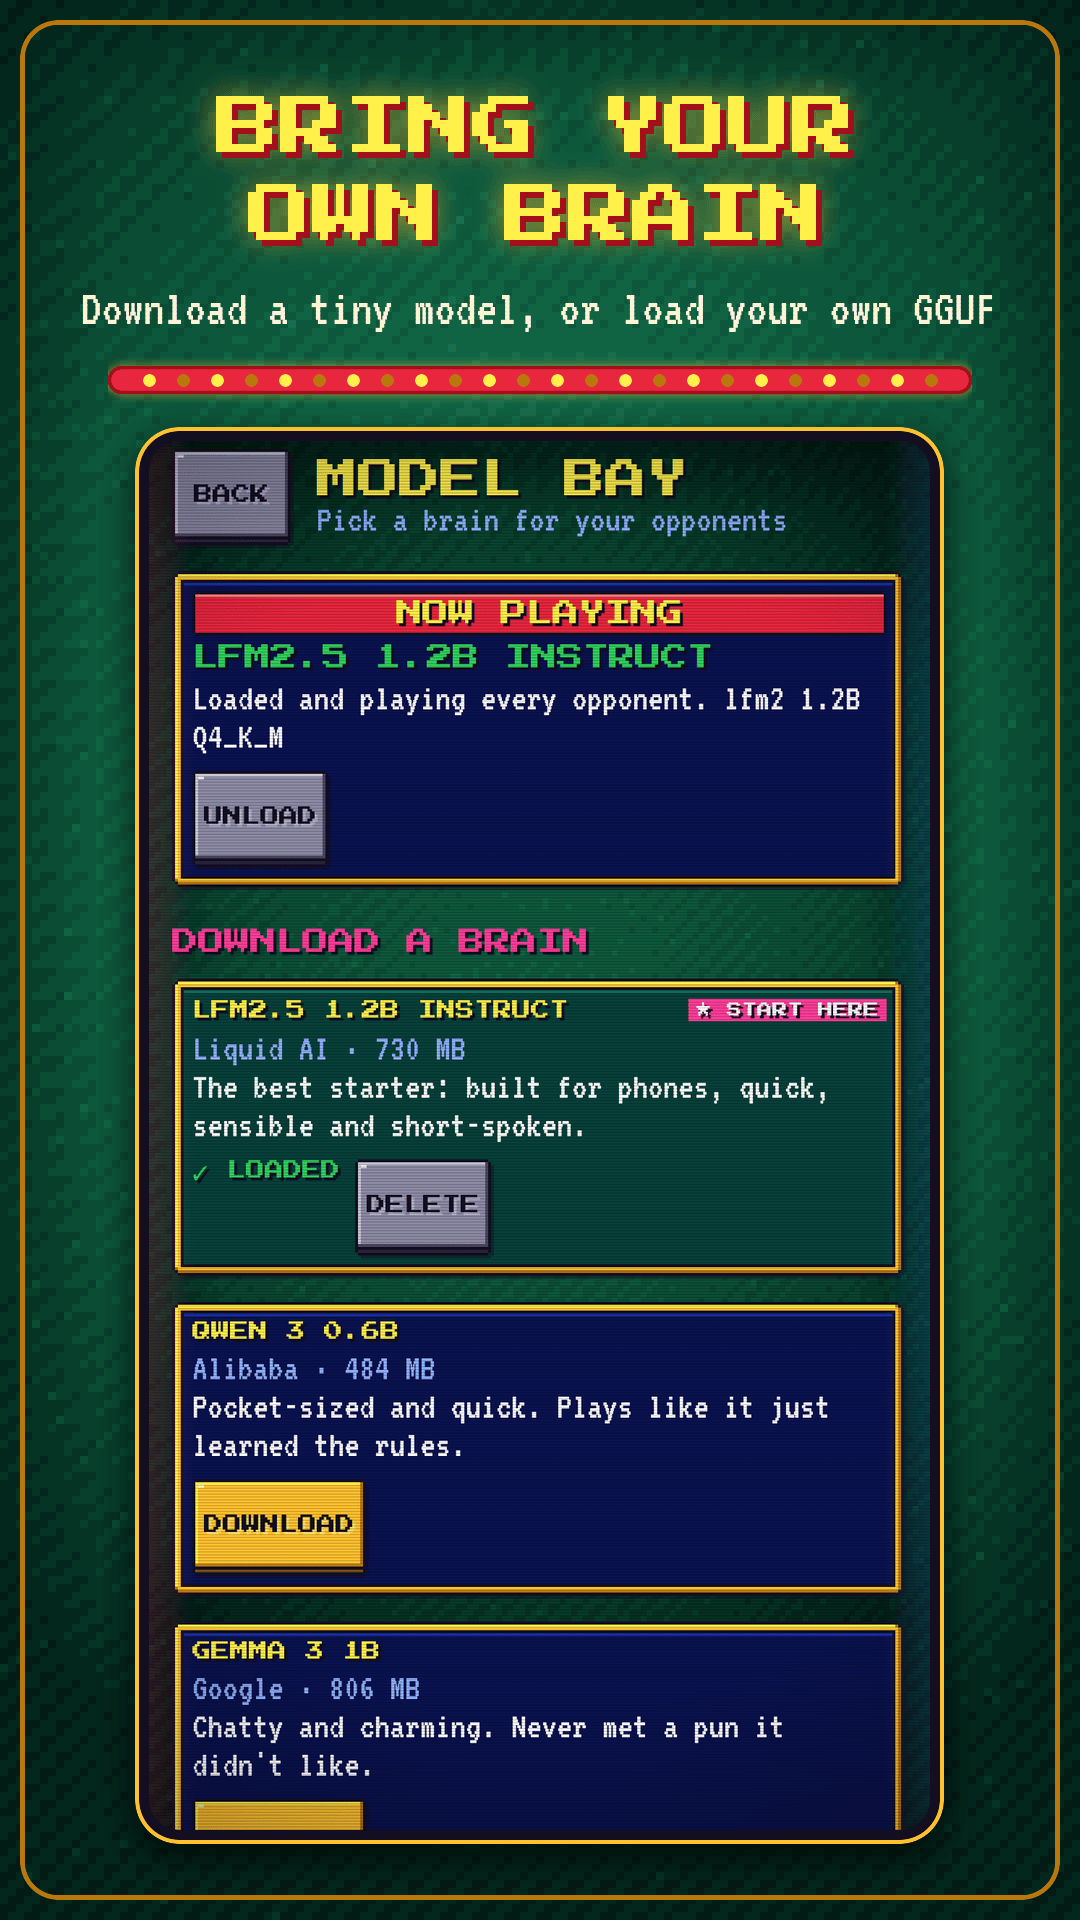
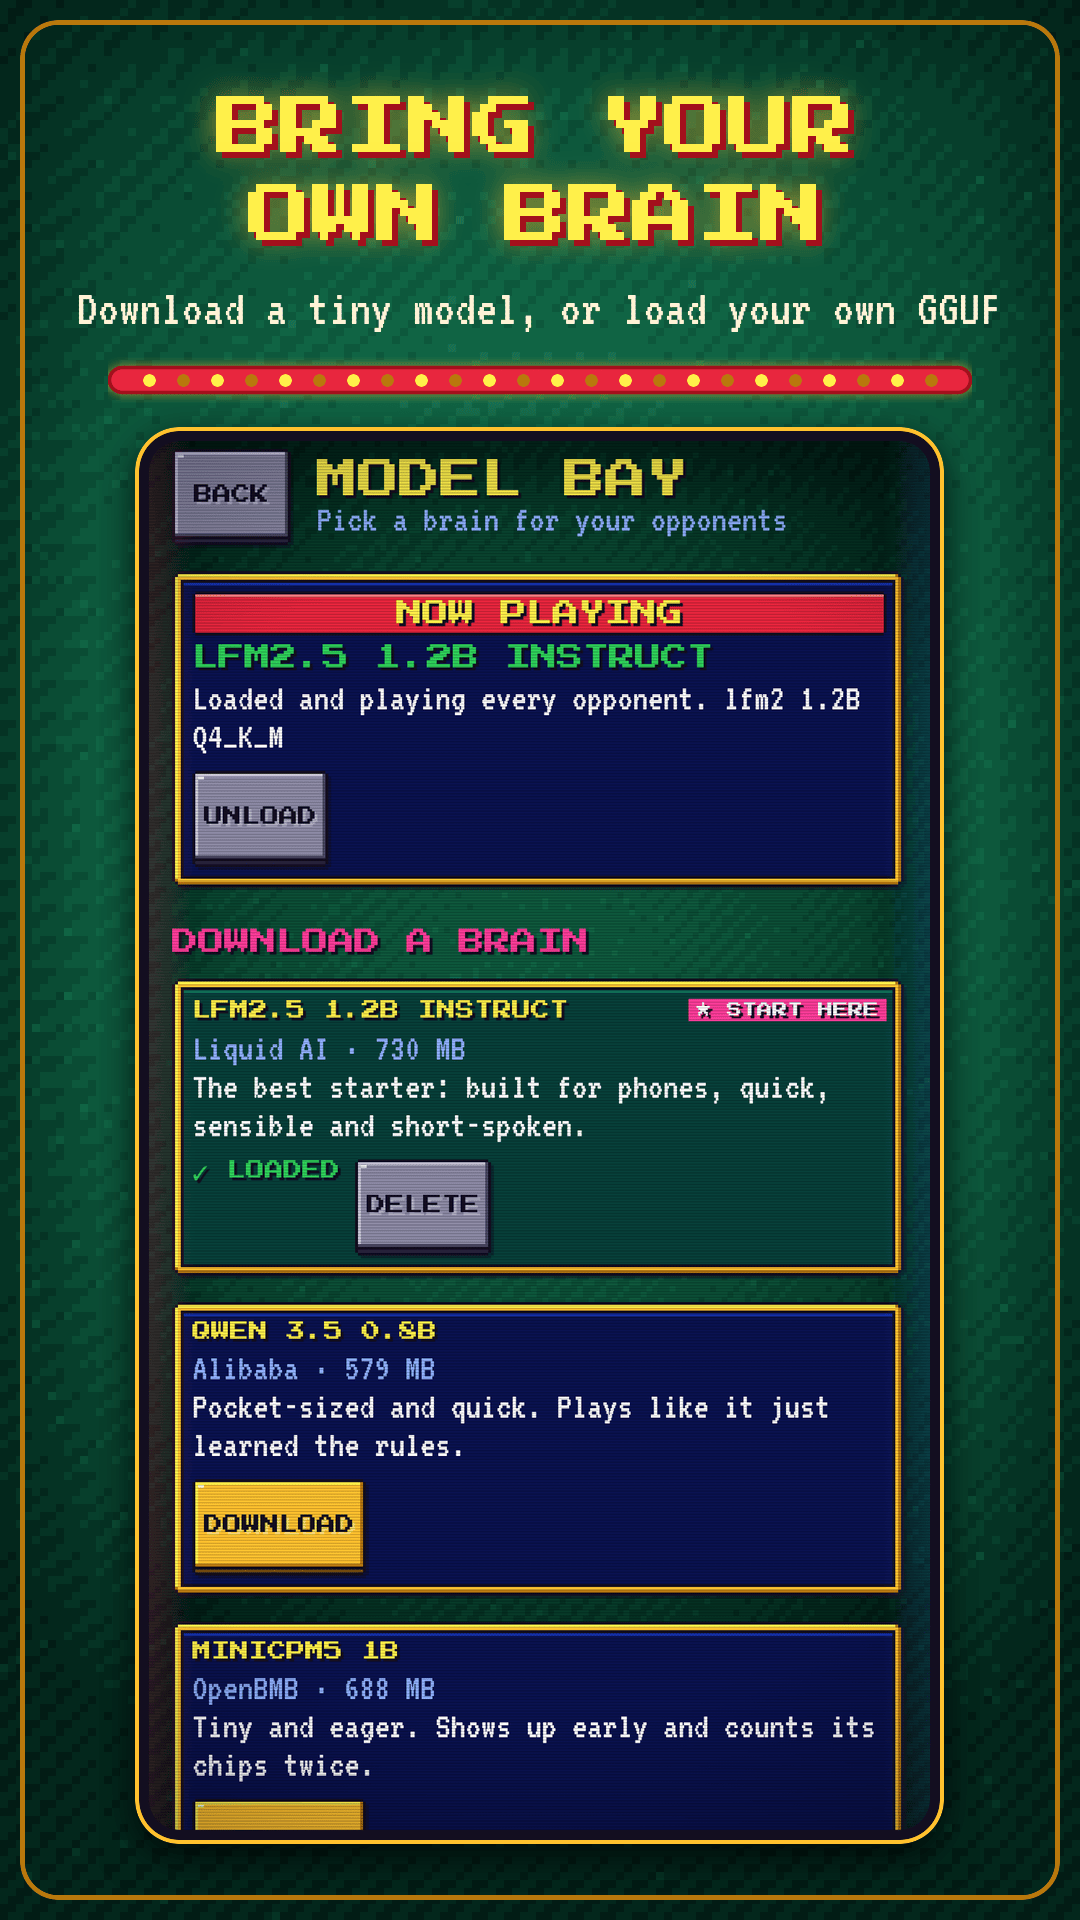
Model catalog: Gemma 4, Qwen 3.5 and MiniCPM5 from LM Playground (#19)
* Update the model catalog to LM Playground's newest models

Add Gemma 4 E2B and E4B (Google's QAT Q4_0 GGUFs), Qwen 3.5 0.8B/2B/4B
in place of Qwen 3, and MiniCPM5 1B. Drop Gemma 3 1B, superseded by
Gemma 4. Llama 3.2, LFM2.5, Granite 4.0 H 1B, SmolLM3 and Phi-4 mini
stay: they are still the newest small models of their families. Sizes
checked with HEAD requests against Hugging Face.

Claude-Session: https://claude.ai/code/session_01M1YjJZPRJoStG5HnLD3umL

* Fix AttractLinesTest for the renamed sample model

Claude-Session: https://claude.ai/code/session_01M1YjJZPRJoStG5HnLD3umL

* Harness results for the new models; regenerate the Models screenshots

Gemma 4 E2B/E4B, Qwen 3.5 0.8B/2B/4B and MiniCPM5 1B each played the
harness cases through the app's prompts and grammars: every reply valid
JSON and a legal decision.

Claude-Session: https://claude.ai/code/session_01M1YjJZPRJoStG5HnLD3umL

* Reload a model dropped from the catalog under its file's id

The last-loaded model is remembered by catalog id. Once that entry is
gone (Qwen 3, Gemma 3), the Models screen lists the file as the player's
own, keyed by its location, so the reloaded model has to carry that id
too or its row shows as not loaded and DELETE skips the unload.

Claude-Session: https://claude.ai/code/session_01M1YjJZPRJoStG5HnLD3umL

---------

diff --git a/app/src/main/java/com/bradflaugher/pokersi/llm/ModelCatalog.kt b/app/src/main/java/com/bradflaugher/pokersi/llm/ModelCatalog.kt
@@ -14,29 +14,30 @@ data class CatalogModel(
 )
 
 /**
- * Small instruct GGUFs (Q4_K_M) that run on a phone and follow a JSON
- * format well enough to play. Sizes were checked with HTTP HEAD requests
- * (Hugging Face's x-linked-size); the URLs are the ones LM Playground uses
- * where it has the model.
+ * Small instruct GGUFs that run on a phone and follow a JSON format well
+ * enough to play: the newest of each family LM Playground carries, Q4_K_M
+ * (Gemma 4 is Google's own quantization-aware Q4_0). Sizes were checked
+ * with HTTP HEAD requests (Hugging Face's x-linked-size); the URLs are the
+ * repos LM Playground uses.
  */
 object ModelCatalog {
     private const val HF = "https://huggingface.co"
 
     val models: List<CatalogModel> = listOf(
         CatalogModel(
-            "qwen3-0.6b", "Qwen 3 0.6B", "Alibaba", "Qwen3-0.6B-Q4_K_M.gguf",
-            "$HF/lmstudio-community/Qwen3-0.6B-GGUF/resolve/main/Qwen3-0.6B-Q4_K_M.gguf", 484_219_808,
+            "qwen3.5-0.8b", "Qwen 3.5 0.8B", "Alibaba", "Qwen_Qwen3.5-0.8B-Q4_K_M.gguf",
+            "$HF/bartowski/Qwen_Qwen3.5-0.8B-GGUF/resolve/main/Qwen_Qwen3.5-0.8B-Q4_K_M.gguf", 579_615_840,
             "Pocket-sized and quick. Plays like it just learned the rules.",
+        ),
+        CatalogModel(
+            "minicpm5-1b", "MiniCPM5 1B", "OpenBMB", "MiniCPM5-1B-Q4_K_M.gguf",
+            "$HF/openbmb/MiniCPM5-1B-GGUF/resolve/main/MiniCPM5-1B-Q4_K_M.gguf", 688_065_920,
+            "Tiny and eager. Shows up early and counts its chips twice.",
         ),
         CatalogModel(
             "llama3.2-1b", "Llama 3.2 1B", "Meta", "Llama-3.2-1B-Instruct-Q4_K_M.gguf",
             "$HF/lmstudio-community/Llama-3.2-1B-Instruct-GGUF/resolve/main/Llama-3.2-1B-Instruct-Q4_K_M.gguf", 807_690_688,
             "Steady and talkative. A safe pair of hands for any phone.",
-        ),
-        CatalogModel(
-            "gemma3-1b", "Gemma 3 1B", "Google", "gemma-3-1b-it-Q4_K_M.gguf",
-            "$HF/lmstudio-community/gemma-3-1b-it-GGUF/resolve/main/gemma-3-1b-it-Q4_K_M.gguf", 806_058_240,
-            "Chatty and charming. Never met a pun it didn't like.",
         ),
         CatalogModel(
             "lfm2.5-1.2b", "LFM2.5 1.2B Instruct", "Liquid AI", "LFM2.5-1.2B-Instruct-Q4_K_M.gguf",
@@ -50,14 +51,9 @@ object ModelCatalog {
             "All business. Brings a spreadsheet to game night.",
         ),
         CatalogModel(
-            "qwen3-1.7b", "Qwen 3 1.7B", "Alibaba", "Qwen3-1.7B-Q4_K_M.gguf",
-            "$HF/lmstudio-community/Qwen3-1.7B-GGUF/resolve/main/Qwen3-1.7B-Q4_K_M.gguf", 1_282_439_328,
+            "qwen3.5-2b", "Qwen 3.5 2B", "Alibaba", "Qwen_Qwen3.5-2B-Q4_K_M.gguf",
+            "$HF/bartowski/Qwen_Qwen3.5-2B-GGUF/resolve/main/Qwen_Qwen3.5-2B-Q4_K_M.gguf", 1_396_198_496,
             "A sharper player that still fits on most phones.",
-        ),
-        CatalogModel(
-            "llama3.2-3b", "Llama 3.2 3B", "Meta", "Llama-3.2-3B-Instruct-Q4_K_M.gguf",
-            "$HF/lmstudio-community/Llama-3.2-3B-Instruct-GGUF/resolve/main/Llama-3.2-3B-Instruct-Q4_K_M.gguf", 2_019_377_440,
-            "Reads the table like a regular. Needs a roomy phone.",
         ),
         CatalogModel(
             "smollm3-3b", "SmolLM3 3B", "Hugging Face", "HuggingFaceTB_SmolLM3-3B-Q4_K_M.gguf",
@@ -65,14 +61,29 @@ object ModelCatalog {
             "Small name, big ideas. Fully open, all the way down.",
         ),
         CatalogModel(
+            "llama3.2-3b", "Llama 3.2 3B", "Meta", "Llama-3.2-3B-Instruct-Q4_K_M.gguf",
+            "$HF/lmstudio-community/Llama-3.2-3B-Instruct-GGUF/resolve/main/Llama-3.2-3B-Instruct-Q4_K_M.gguf", 2_019_377_440,
+            "Reads the table like a regular. Needs a roomy phone.",
+        ),
+        CatalogModel(
             "phi4-mini", "Phi-4 mini", "Microsoft", "Phi-4-mini-instruct-Q4_K_M.gguf",
             "$HF/lmstudio-community/Phi-4-mini-instruct-GGUF/resolve/main/Phi-4-mini-instruct-Q4_K_M.gguf", 2_491_874_400,
             "The math whiz. Counts outs in its sleep.",
         ),
         CatalogModel(
-            "qwen3-4b", "Qwen 3 4B", "Alibaba", "Qwen3-4B-Q4_K_M.gguf",
-            "$HF/lmstudio-community/Qwen3-4B-GGUF/resolve/main/Qwen3-4B-Q4_K_M.gguf", 2_497_280_704,
+            "qwen3.5-4b", "Qwen 3.5 4B", "Alibaba", "Qwen_Qwen3.5-4B-Q4_K_M.gguf",
+            "$HF/bartowski/Qwen_Qwen3.5-4B-GGUF/resolve/main/Qwen_Qwen3.5-4B-Q4_K_M.gguf", 3_013_027_808,
             "The table shark. Slow on older phones, scary on new ones.",
+        ),
+        CatalogModel(
+            "gemma4-e2b", "Gemma 4 E2B", "Google", "gemma-4-E2B_q4_0-it.gguf",
+            "$HF/google/gemma-4-E2B-it-qat-q4_0-gguf/resolve/main/gemma-4-E2B_q4_0-it.gguf", 3_349_516_256,
+            "Google's phone-sized ace. Charming, sharp, and needs 8 GB of RAM.",
+        ),
+        CatalogModel(
+            "gemma4-e4b", "Gemma 4 E4B", "Google", "gemma-4-E4B_q4_0-it.gguf",
+            "$HF/google/gemma-4-E4B-it-qat-q4_0-gguf/resolve/main/gemma-4-E4B_q4_0-it.gguf", 5_154_941_280,
+            "The high roller. Plays a mean game on a 12 GB flagship.",
         ),
     )
 

diff --git a/app/src/main/java/com/bradflaugher/pokersi/llm/ModelStore.kt b/app/src/main/java/com/bradflaugher/pokersi/llm/ModelStore.kt
@@ -32,6 +32,13 @@ sealed interface ModelLocation {
 
     /** A Storage Access Framework document the user picked (loaded through its file descriptor). */
     data class Document(val uri: Uri) : ModelLocation
+
+    /** The id of a model file that is not in the catalog: where it lives. */
+    val customId: String
+        get() = when (this) {
+            is FilePath -> file.path
+            is Document -> uri.toString()
+        }
 }
 
 /**
@@ -164,11 +171,7 @@ class ModelStore private constructor(context: Context) {
         }
         val catalogNames = ModelCatalog.models.map { it.fileName }.toSet()
         val custom = files.filter { it.name !in catalogNames }.map { f ->
-            val id = when (val l = f.location) {
-                is ModelLocation.FilePath -> l.file.path
-                is ModelLocation.Document -> l.uri.toString()
-            }
-            LocalModel(id, f.name.removeSuffix(".gguf"), f.name, f.size, f.location, null)
+            LocalModel(f.location.customId, f.name.removeSuffix(".gguf"), f.name, f.size, f.location, null)
         }.distinctBy { it.id }.sortedBy { it.name.lowercase() }
         return catalog + custom
     }

diff --git a/app/src/test/java/com/bradflaugher/pokersi/game/AttractLinesTest.kt b/app/src/test/java/com/bradflaugher/pokersi/game/AttractLinesTest.kt
@@ -25,10 +25,10 @@ class AttractLinesTest {
         val tour = RunState.new(5L)
         val best = BestHand.of(HandEvaluator.evaluate(Card.parseList("As Ah Ad Ks Kh")), GameVariant.TEXAS_HOLDEM)
         val stats = LifetimeStats(handsPlayed = 40, handsWon = 12, biggestPot = 3200, bestHand = best)
-        val lines = AttractLines.lines(TitleFacts(tour, DailyResult(played = true, finished = true, bestTables = 4), stats, "Qwen 3 1.7B"))
+        val lines = AttractLines.lines(TitleFacts(tour, DailyResult(played = true, finished = true, bestTables = 4), stats, "Qwen 3.5 2B"))
         assertEquals("CHIPS ${formatChips(tour.playerChips)} · TOUR STOP 1", lines.first())
         assertTrue("DAILY TOUR: BEST 4 TABLES" in lines)
-        assertTrue("QWEN 3 1.7B IS AT THE TABLE" in lines)
+        assertTrue("QWEN 3.5 2B IS AT THE TABLE" in lines)
         assertTrue("BIGGEST POT 3,200" in lines)
         assertTrue("BEST HAND: FULL HOUSE" in lines)
         assertFalse(lines.any { it.startsWith("WELCOME") })

diff --git a/app/src/main/java/com/bradflaugher/pokersi/llm/LlamaEngine.kt b/app/src/main/java/com/bradflaugher/pokersi/llm/LlamaEngine.kt
@@ -331,13 +331,15 @@ class LlamaEngine private constructor(context: Context) : LlmBackend {
         val location = prefs.getString(KEY_PATH, null)?.let { ModelLocation.FilePath(File(it)) }
             ?: prefs.getString(KEY_URI, null)?.toUri()?.let { ModelLocation.Document(it) }
             ?: return null
+        // A model since dropped from the catalog is listed as the player's own file, by location.
+        val catalog = ModelCatalog.byId(id)
         return LocalModel(
-            id = id,
+            id = if (catalog != null) id else location.customId,
             name = prefs.getString(KEY_NAME, null) ?: id,
             fileName = prefs.getString(KEY_FILE, null) ?: "",
             sizeBytes = 0,
             location = location,
-            catalog = ModelCatalog.byId(id),
+            catalog = catalog,
         )
     }
 

diff --git a/app/src/test/java/com/bradflaugher/pokersi/ui/screens/ConsoleScene.kt b/app/src/test/java/com/bradflaugher/pokersi/ui/screens/ConsoleScene.kt
@@ -36,8 +36,8 @@ say ::= sayc+
 sayc ::= [^"\\\x00-\x1F]"""
 
     val entries: List<AiLogEntry> = listOf(
-        AiLogEntry(1, T0, AiLogKind.ENGINE, "ENGINE", "loading Qwen 3 1.7B"),
-        AiLogEntry(2, T0 + 2_310, AiLogKind.ENGINE, "ENGINE", "ready: Qwen 3 1.7B", "qwen3 1.7B Q4_K_M · 4 threads · ctx 4096"),
+        AiLogEntry(1, T0, AiLogKind.ENGINE, "ENGINE", "loading Qwen 3.5 2B"),
+        AiLogEntry(2, T0 + 2_310, AiLogKind.ENGINE, "ENGINE", "ready: Qwen 3.5 2B", "qwen35 2B Q4_K_M · 4 threads · ctx 4096"),
         AiLogEntry(3, T0 + 9_004, AiLogKind.TABLE, "TABLE", "hand 12: Texas Hold'em, blinds 10/20"),
         AiLogEntry(4, T0 + 10_120, AiLogKind.TABLE, "TABLE", "Captain Chip calls 20"),
         AiLogEntry(5, T0 + 14_870, AiLogKind.TABLE, "TABLE", "You raises to 80"),

diff --git a/app/src/test/java/com/bradflaugher/pokersi/ui/models/ModelsScenes.kt b/app/src/test/java/com/bradflaugher/pokersi/ui/models/ModelsScenes.kt
@@ -13,7 +13,7 @@ object ModelsScenes {
         fun scene(): ModelsUiState {
             val catalog = ModelCatalog.models.map { c ->
                 val location = if (c.recommended) ModelLocation.FilePath(File("/models/${c.fileName}")) else null
-                val download = if (c.id == "qwen3-1.7b") DownloadProgress(DownloadProgress.State.RUNNING, 512_000_000, c.sizeBytes, 14_000_000) else null
+                val download = if (c.id == "qwen3.5-2b") DownloadProgress(DownloadProgress.State.RUNNING, 512_000_000, c.sizeBytes, 14_000_000) else null
                 LocalModel(c.id, c.name, c.fileName, c.sizeBytes, location, c, download)
             }
             val loaded = catalog.first { it.catalog!!.recommended }

diff --git a/tools/llm-harness/README.md b/tools/llm-harness/README.md
@@ -34,7 +34,7 @@ Needs CMake, Ninja, a C++17 compiler, the llama.cpp submodule checked out
 and some GGUF models (any from `ModelCatalog`).
 
 ```sh
-tools/llm-harness/run.sh ~/models/LFM2.5-1.2B-Instruct-Q4_K_M.gguf ~/models/Qwen3-0.6B-Q4_K_M.gguf
+tools/llm-harness/run.sh ~/models/LFM2.5-1.2B-Instruct-Q4_K_M.gguf ~/models/gemma-4-E2B_q4_0-it.gguf
 ```
 
 Environment: `LLAMA_DIR` (llama.cpp tree, default the submodule),
@@ -53,7 +53,8 @@ built it; pass `-DGGML_NATIVE=OFF` to cmake to share one between machines.
 
 ## What we learned
 
-Measured on a 4-core x86 cloud VM (shared, so timings are noisy), Q4_K_M:
+Measured on a 4-core x86 cloud VM (shared, so timings are noisy), Q4_K_M unless noted
+(a recent phone is several times faster):
 
 | model | prompt tok/s | gen tok/s | per decision | play |
 |---|---|---|---|---|
@@ -61,6 +62,12 @@ Measured on a 4-core x86 cloud VM (shared, so timings are noisy), Q4_K_M:
 | LFM2.5 1.2B | ~270 | ~19 | ~2.8 s | sensible and short; a little passive |
 | Llama 3.2 1B | ~290 | ~10-15 | ~3-4 s | good talk, stubborn caller |
 | Gemma 3 1B | ~130 | ~9 | ~5-7 s | follows the advice, flowery; slow prompt (262k vocab) |
+| Qwen 3.5 0.8B | ~210 | ~17 | ~4.4 s | follows the advice, rambles; sometimes names its cards |
+| MiniCPM5 1B | ~280 | ~20 | ~3.9 s | quick, but talks strategy out loud and names its cards |
+| Qwen 3.5 2B | ~110 | ~9 | ~8 s | sound play, short lively lines |
+| Qwen 3.5 4B | ~46 | ~4.4 | ~17 s | strong and in character; slowest here |
+| Gemma 4 E2B (QAT Q4_0) | ~105 | ~11 | ~6.9 s | sensible bets, short in-character lines, never shows its hand |
+| Gemma 4 E4B (QAT Q4_0) | ~56 | ~6.5 | ~12 s | the steadiest play and talk; for 12 GB+ phones |
 
 Every reply from every model was valid JSON and parsed to a legal decision.
 
